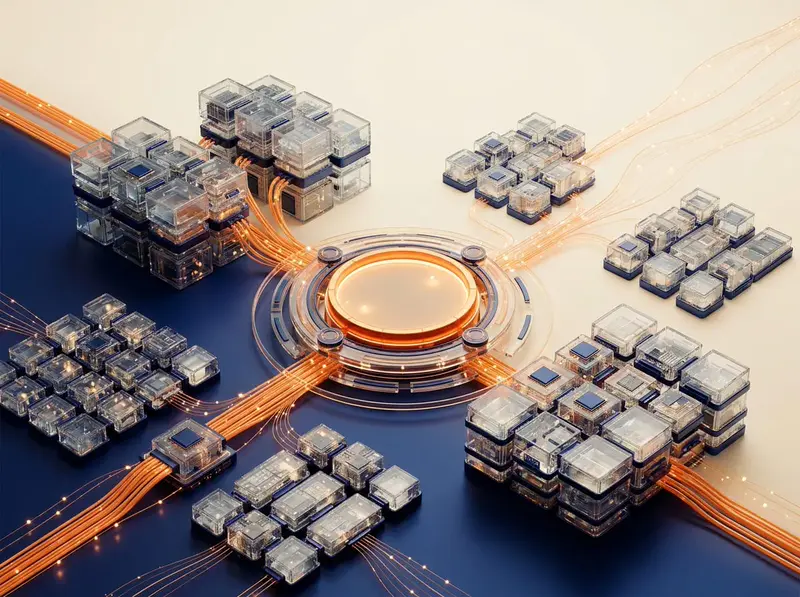
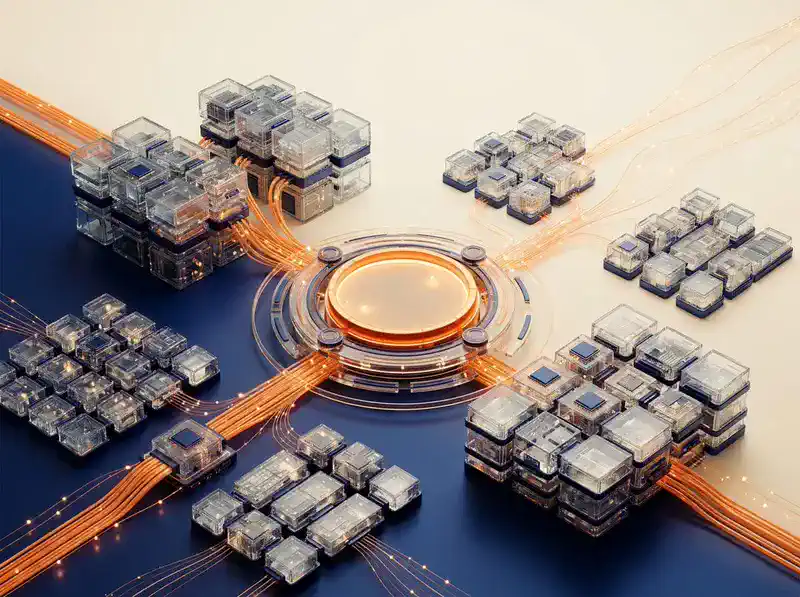
Optimize mobile initial loading

diff --git a/vite.config.ts b/vite.config.ts
@@ -4,11 +4,22 @@ import react from '@vitejs/plugin-react'
 export default defineConfig({
   plugins: [react()],
   build: {
+    modulePreload: {
+      resolveDependencies(_filename, deps) {
+        return deps.filter((dependency) => !dependency.includes('hero-shader'))
+      },
+    },
     rollupOptions: {
       input: {
         main: 'index.html',
         privacy: 'privacy.html',
         en: 'en/index.html',
+      },
+      output: {
+        manualChunks(id) {
+          if (id.includes('/node_modules/shaders/')) return 'hero-shader'
+          if (id.includes('/node_modules/react') || id.includes('/node_modules/react-dom') || id.includes('/node_modules/scheduler')) return 'react'
+        },
       },
     },
   },

diff --git a/src/main.tsx b/src/main.tsx
@@ -133,7 +133,7 @@ function ThemeToggle({ darkMode, onToggle }: { darkMode: boolean; onToggle: () =
 }
 
 function BrandLogo({ compact = false }: { compact?: boolean }) {
-  return <img className={compact ? 'brand-logo brand-logo-compact' : 'brand-logo'} src="/gorjeos-mark.webp" alt="Gorjeos de Babylon" width="256" height="266" decoding="async" />
+  return <img className={compact ? 'brand-logo brand-logo-compact' : 'brand-logo'} src={compact ? '/gorjeos-mark-64.webp' : '/gorjeos-mark.webp'} alt="Gorjeos de Babylon" width={compact ? 64 : 256} height={compact ? 67 : 266} decoding="async" />
 }
 
 function SectionBadge({ number, children }: { number: string; children: string }) {

diff --git a/src/en.tsx b/src/en.tsx
@@ -33,7 +33,7 @@ function ThemeToggle({ darkMode, onToggle }: { darkMode: boolean; onToggle: () =
 }
 
 function BrandLogo({ compact = false }: { compact?: boolean }) {
-  return <img className={compact ? 'brand-logo brand-logo-compact' : 'brand-logo'} src="/gorjeos-mark.webp" alt="Gorjeos de Babylon" width="256" height="266" decoding="async" />
+  return <img className={compact ? 'brand-logo brand-logo-compact' : 'brand-logo'} src={compact ? '/gorjeos-mark-64.webp' : '/gorjeos-mark.webp'} alt="Gorjeos de Babylon" width={compact ? 64 : 256} height={compact ? 67 : 266} decoding="async" />
 }
 
 function SectionBadge({ number, children }: { number: string; children: string }) {

diff --git a/docs/performance-mobile-2026-09-18.md b/docs/performance-mobile-2026-09-18.md
@@ -1,0 +1,54 @@
+# Revisión de rendimiento móvil
+
+Fecha: 18 de septiembre de 2026  
+Rama: `codex/mobile-performance`  
+URL evaluada: `https://www.gorjeosbabylon.com/`  
+Herramienta: PageSpeed Insights / Lighthouse móvil
+
+## Línea base
+
+La medición móvil inicial obtuvo:
+
+- Rendimiento: 64
+- Accesibilidad: 97
+- Prácticas recomendadas: 100
+- SEO: 100
+- First Contentful Paint: 4,2 s
+- Largest Contentful Paint: 6,5 s
+- Total Blocking Time: 30 ms
+- Cumulative Layout Shift: 0
+- Speed Index: 6,0 s
+
+El entorno de prueba emula un Moto G Power con red 4G lenta, por lo que estos valores son una referencia de laboratorio y no sustituyen los datos reales de usuarios.
+
+## Problemas confirmados
+
+PageSpeed señaló tres áreas que sí podían optimizarse sin cambiar el diseño ni la tecnología de la animación:
+
+1. El shader del banner quedaba dentro del paquete principal y aportaba aproximadamente 328 KiB de JavaScript no utilizado durante el arranque.
+2. `apps-software.webp` podía comprimirse con un ahorro estimado de aproximadamente 31,5 KiB.
+3. `modelos-ia.webp` podía comprimirse con un ahorro estimado de aproximadamente 4,9 KiB.
+4. El logo compacto se servía a 256 px aunque en la cabecera móvil se mostraba cerca de 54 px.
+
+## Cambios aplicados
+
+- Se mantuvo la importación diferida del shader y se separó el código de `shaders/react` en `hero-shader`.
+- Se eliminó únicamente la precarga automática de ese chunk. La animación, sus parámetros, el fallback estático y la lógica de accesibilidad no se modificaron.
+- Se conserva el retraso de carga inicial y el fallback para dispositivos sin WebGPU, `prefers-reduced-motion` o `Save-Data`.
+- Se recompresaron `apps-software.webp` y `modelos-ia.webp` manteniendo sus dimensiones de 800 × 597 px.
+- Se añadió `gorjeos-mark-64.webp` para la cabecera compacta y se mantuvo el logo grande para el pie de página y metadatos.
+
+## Verificaciones
+
+- `npm run build`: correcto.
+- El HTML generado ya no contiene `modulepreload` para `hero-shader`.
+- El shader continúa apareciendo como importación dinámica en el bundle principal.
+- `git diff --check`: correcto.
+- No se modificaron imágenes de fondo, contenido textual ni parámetros de la animación.
+
+## Pendiente de medición
+
+Después de publicar la preview se debe repetir PageSpeed móvil sobre esa URL. El resultado posterior debe compararse con la línea base; no se considera éxito solo por el tamaño del bundle, sino por la mejora de FCP, LCP y la puntuación móvil en condiciones equivalentes.
+
+La advertencia de chunk grande del shader es esperada: ese código queda fuera de la carga inicial para no penalizar la primera pantalla y se mantiene como mejora visual progresiva.
+
